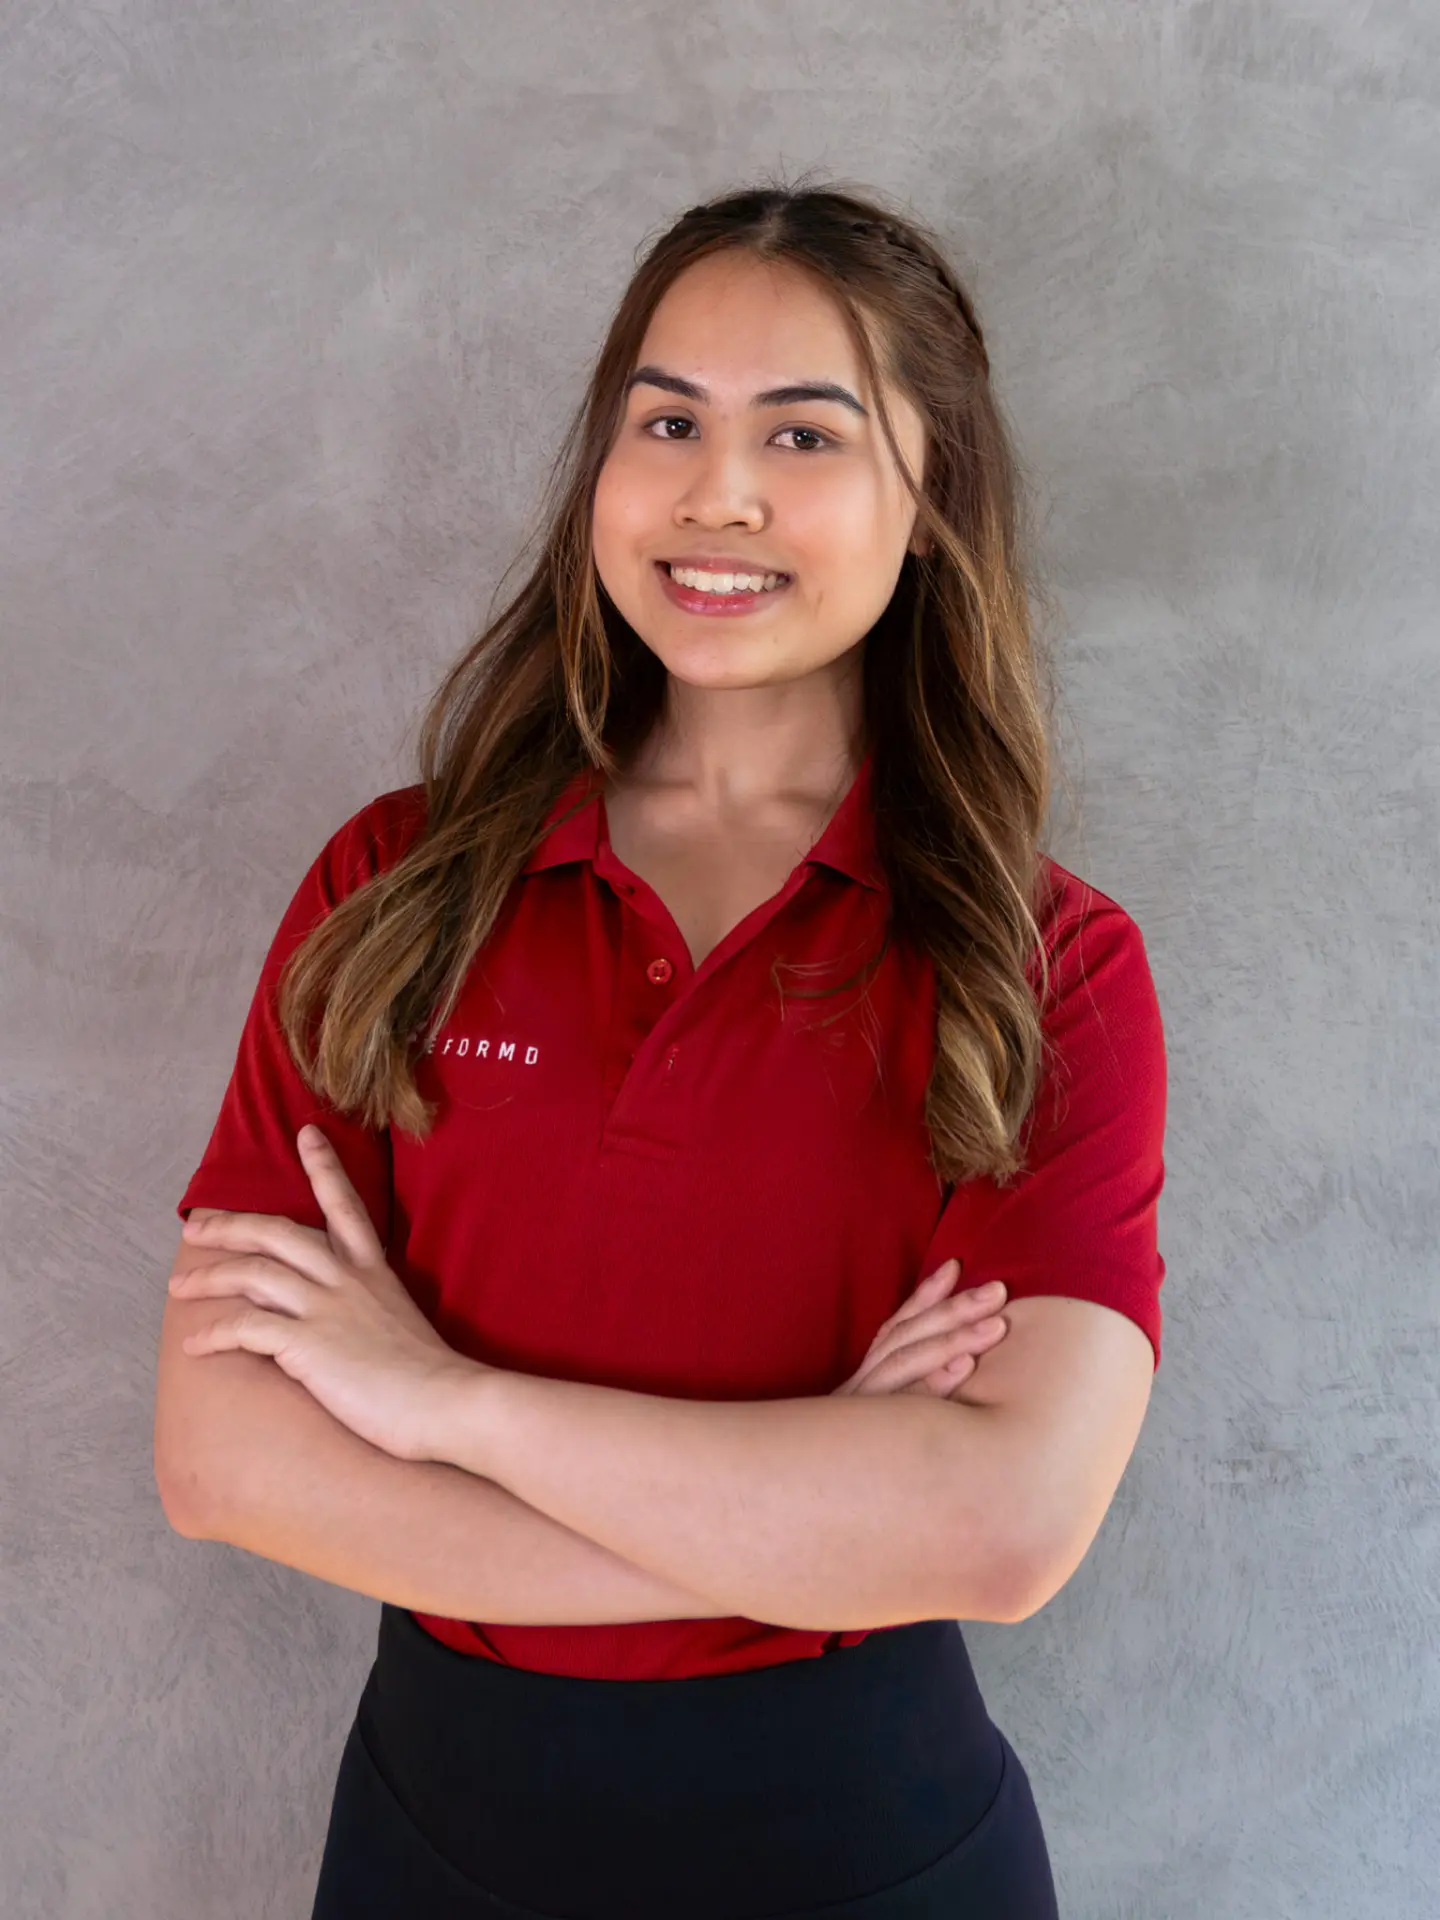
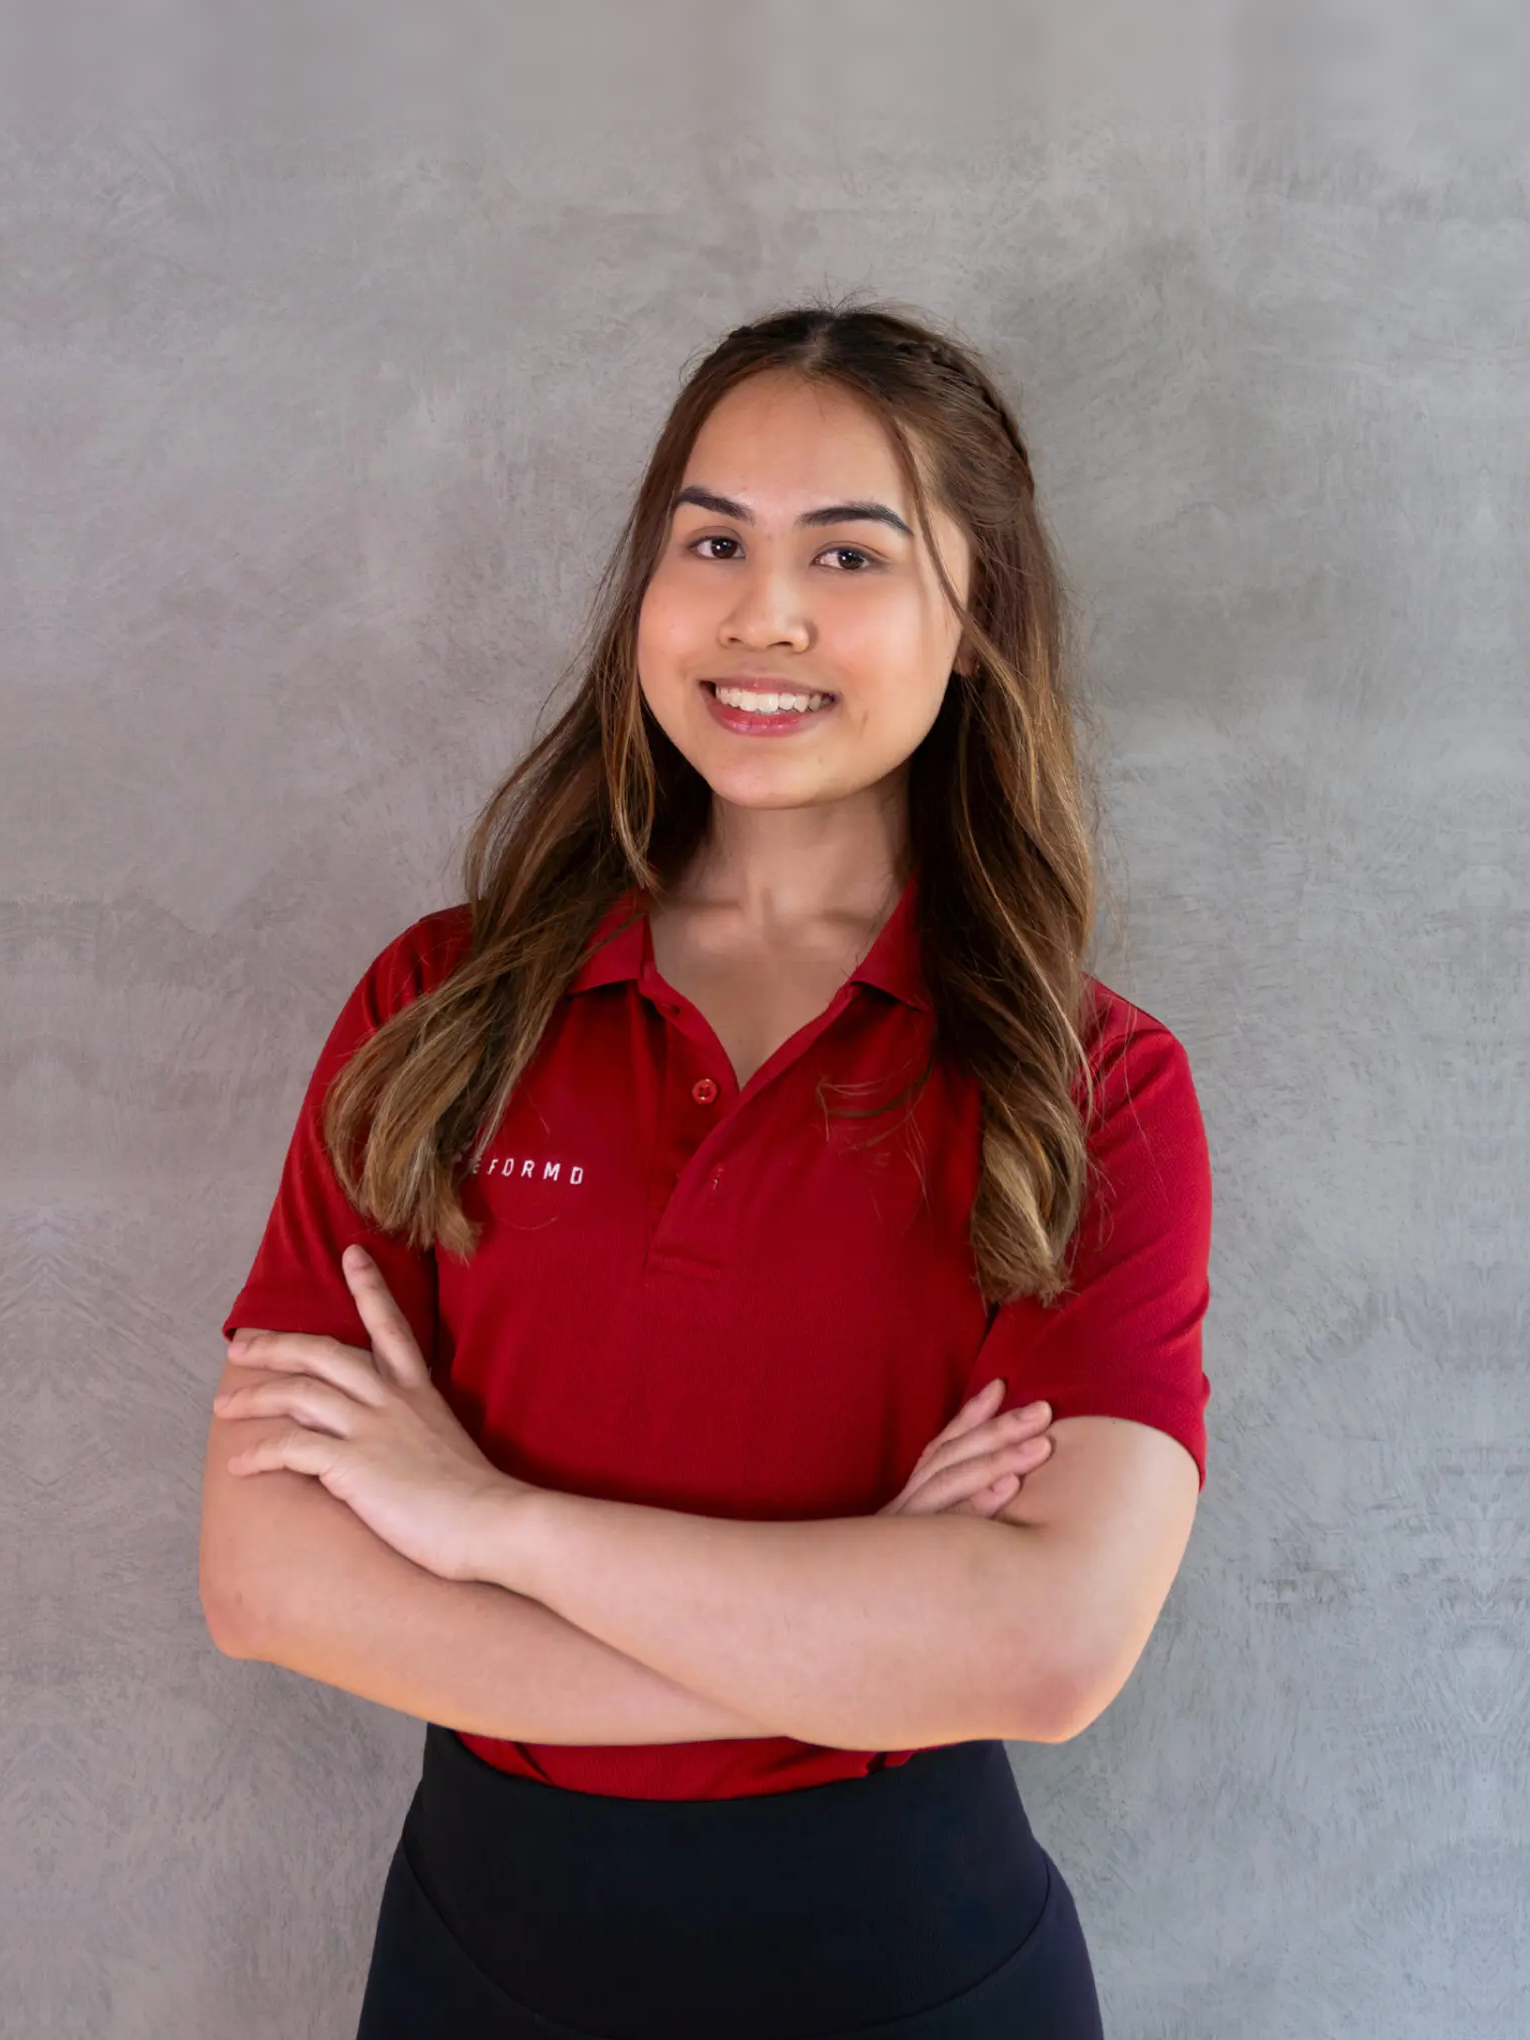
Level Genevieve's team photo and add Haikal Saheed profile

diff --git a/src/data/site.ts b/src/data/site.ts
@@ -553,7 +553,7 @@ export const team: Trainer[] = [
     },
   },
   {
-    slug: "genevieve-nagulendran", firstName: "Genevieve", lastName: "Nagulendran", name: "Genevieve Nagulendran", title: "RF Academy Certified Personal Trainer", image: "/images/genevieve-headshot.png", imageStyle: { transform: "scale(1.08)", transformOrigin: "50% 100%", objectPosition: "50% 0%", translate: "0 2%" }, specialisations: ["Strength", "Body recomposition"],
+    slug: "genevieve-nagulendran", firstName: "Genevieve", lastName: "Nagulendran", name: "Genevieve Nagulendran", title: "RF Academy Certified Personal Trainer", image: "/images/genevieve-headshot.png", imageStyle: { transform: "scale(1.08)", transformOrigin: "50% 0%", objectPosition: "50% 0%", translate: "0 -3%" }, specialisations: ["Strength", "Body recomposition"],
     profile: {
       banner: "/images/genevieve-banner.png",
       focus: ["Strength & Conditioning", "Hypertrophy", "Mobility", "Weight Management", "Sustainable Training", "Sports Performance"],
@@ -566,6 +566,30 @@ export const team: Trainer[] = [
       beliefLabel: "Her training belief",
       qualifications: ["RF Academy Certified Personal Trainer", "Bachelor of Science (Honours) Business Management Undergraduate", "ISSA Senior Fitness Coaching", "CPR & AED Certified"],
       achievements: ["Singapore BJJ Open, 3rd", "Former Muay Thai and Brazilian Jiujitsu Athlete"],
+    },
+  },
+  {
+    slug: "haikal-saheed", firstName: "Haikal", lastName: "Saheed", name: "Haikal Saheed", title: "RF Academy Certified Personal Trainer", image: "/images/haikal-headshot.png", imageStyle: { transform: "scale(1.08)", transformOrigin: "50% 0%", objectPosition: "50% 0%", translate: "0 -3%" }, specialisations: ["Strength", "Body recomposition"],
+    profile: {
+      banner: "/images/haikal-banner.png",
+      focus: ["Strength & Conditioning", "Hypertrophy", "Mobility", "Weight Management", "Sustainable Training", "Sports Performance"],
+      bio: [
+        "Haikal believes that everyone can achieve their goals through consistency and perseverance. His approach to training focuses on guiding clients with steady support, helping them stay committed and confident throughout their fitness journey. Every programme begins with assessing mobility, flexibility, and movement quality to identify and address any limitations early. Haikal prioritises building strength, improving physique, and developing the confidence to carry that progress beyond the gym.",
+        "A competitive bodybuilder since 2024, Haikal has earned multiple podium finishes, including the 2025 IFBB NPC Men\u2019s Physique Junior Overall Champion title. His experience on stage fuels his passion for helping others push their limits and discover what they are truly capable of. For Haikal, seeing clients transform from their first session to their strongest selves is the most rewarding part of his work.",
+      ],
+      belief: "Walk the walk without the talk. Let your results do the talking.",
+      beliefLabel: "His training belief",
+      qualifications: ["RF Academy Certified Personal Trainer", "Work Study Diploma in Lifestyle & Recreation Management", "CPR & AED Certified"],
+      achievements: [
+        "2026 Fitness Aesthetic Men Physique \u2013 Open Class B, 1st Place",
+        "2026 WNBF Men Physique \u2013 Open Below 173cm, 2nd Place",
+        "2026 Dream Aesthetics Nationals \u2013 Junior, 1st Place",
+        "2026 Dream Aesthetics National \u2013 Open Class B, 4th Place",
+        "2025 IFBB NPC Men Physique \u2013 Junior Overall Champion",
+        "2025 IFBB NPC Men Physique \u2013 Open Class C, 2nd Place",
+        "2024 INBA Men Physique Pro-Qualifier, 4th Place",
+        "2024 Fitness Aesthetic Men Physique \u2013 Junior, 1st Place",
+      ],
     },
   },
 ];
